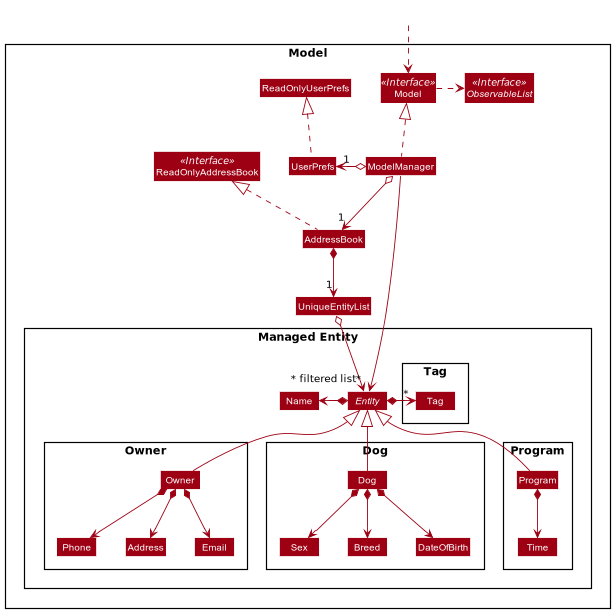
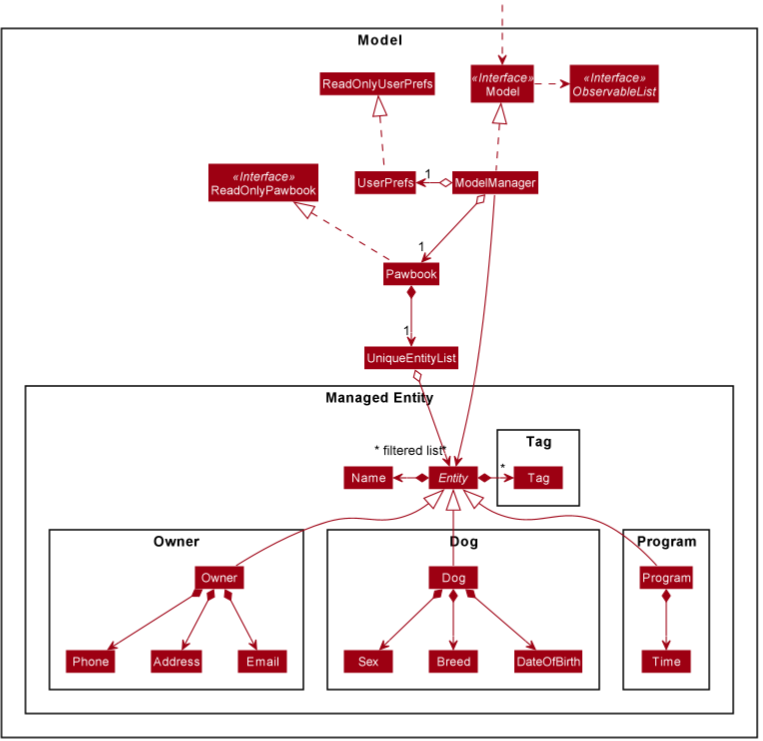
Remove undo related uml diagrams and screenshots. Update developer guide

Changed region(s): [[0.0, 0.031, 1.0, 1.0], [0.2476, 0.2173, 0.4332, 0.3105]]

diff --git a/docs/DeveloperGuide.md b/docs/DeveloperGuide.md
@@ -152,7 +152,7 @@ Classes used by multiple components are in the `pawbook.commons` package.
 
 This section describes some noteworthy details on how certain features are implemented.
 
-### Adding/deleting feature
+### Adding/Deleting feature
 
 #### What it is
 
@@ -240,67 +240,6 @@ Below is an example activity diagram for a valid enrol command from the user.
 As dogs and programs can also be identified by their respective names instead of IDs, another implementation could be replacing the parameters of `dogId` and `programId` with their respective names.
 
 However, this requires there to be no duplicate dog or program names.
- 
-### \[Proposed\] Undo/redo feature
-
-#### Proposed Implementation
-
-The proposed undo/redo mechanism is facilitated by `VersionedAddressBook`. It extends `AddressBook` with an undo/redo history, stored internally as an `addressBookStateList` and `currentStatePointer`. Additionally, it implements the following operations:
-
-* `VersionedAddressBook#commit()` — Saves the current address book state in its history.
-* `VersionedAddressBook#undo()` — Restores the previous address book state from its history.
-* `VersionedAddressBook#redo()` — Restores a previously undone address book state from its history.
-
-These operations are exposed in the `Model` interface as `Model#commitAddressBook()`, `Model#undoAddressBook()` and `Model#redoAddressBook()` respectively.
-
-Given below is an example usage scenario and how the undo/redo mechanism behaves at each step.
-
-Step 1. The user launches the application for the first time. The `VersionedAddressBook` will be initialized with the initial address book state, and the `currentStatePointer` pointing to that single address book state.
-
-![UndoRedoState0](images/UndoRedoState0.png)
-
-Step 2. The user executes `delete 5` command to delete the 5th owner in the address book. The `delete` command calls `Model#commitAddressBook()`, causing the modified state of the address book after the `delete 5` command executes to be saved in the `addressBookStateList`, and the `currentStatePointer` is shifted to the newly inserted address book state.
-
-![UndoRedoState1](images/UndoRedoState1.png)
-
-Step 3. The user executes `add n/David …` to add a new owner. The `add` command also calls `Model#commitAddressBook()`, causing another modified address book state to be saved into the `addressBookStateList`.
-
-![UndoRedoState2](images/UndoRedoState2.png)
-
-<div markdown="span" class="alert alert-info">:information_source: **Note:** If a command fails its execution, it will not call `Model#commitAddressBook()`, so the address book state will not be saved into the `addressBookStateList`.
-
-</div>
-
-Step 4. The user now decides that adding the owner was a mistake, and decides to undo that action by executing the `undo` command. The `undo` command will call `Model#undoAddressBook()`, which will shift the `currentStatePointer` once to the left, pointing it to the previous address book state, and restores the address book to that state.
-
-![UndoRedoState3](images/UndoRedoState3.png)
-
-<div markdown="span" class="alert alert-info">:information_source: **Note:** If the `currentStatePointer` is at index 0, pointing to the initial AddressBook state, then there are no previous AddressBook states to restore. The `undo` command uses `Model#canUndoAddressBook()` to check if this is the case. If so, it will return an error to the user rather
-than attempting to perform the undo.
-
-</div>
-
-The following sequence diagram shows how the undo operation works:
-
-![UndoSequenceDiagram](images/UndoSequenceDiagram.png)
-
-<div markdown="span" class="alert alert-info">:information_source: **Note:** The lifeline for `UndoCommand` should end at the destroy marker (X) but due to a limitation of PlantUML, the lifeline reaches the end of diagram.
-
-</div>
-
-The `redo` command does the opposite — it calls `Model#redoAddressBook()`, which shifts the `currentStatePointer` once to the right, pointing to the previously undone state, and restores the address book to that state.
-
-<div markdown="span" class="alert alert-info">:information_source: **Note:** If the `currentStatePointer` is at index `addressBookStateList.size() - 1`, pointing to the latest address book state, then there are no undone AddressBook states to restore. The `redo` command uses `Model#canRedoAddressBook()` to check if this is the case. If so, it will return an error to the user rather than attempting to perform the redo.
-
-</div>
-
-Step 5. The user then decides to execute the command `list`. Commands that do not modify the address book, such as `list`, will usually not call `Model#commitAddressBook()`, `Model#undoAddressBook()` or `Model#redoAddressBook()`. Thus, the `addressBookStateList` remains unchanged.
-
-![UndoRedoState4](images/UndoRedoState4.png)
-
-Step 6. The user executes `clear`, which calls `Model#commitAddressBook()`. Since the `currentStatePointer` is not pointing at the end of the `addressBookStateList`, all address book states after the `currentStatePointer` will be purged. Reason: It no longer makes sense to redo the `add n/David …` command. This is the behavior that most modern desktop applications follow.
-
-![UndoRedoState5](images/UndoRedoState5.png)
 
 The following activity diagram summarizes what happens when a user executes a new command:
 
@@ -535,16 +474,16 @@ testers are expected to do more *exploratory* testing.
 
 1. _{ more test cases … }_
 
-### Deleting a owner
+### Deleting an owner
 
-1. Deleting a owner while all owners are being shown
+1. Deleting an owner while all owners are being shown
 
    1. Prerequisites: List all owners using the `list` command. Multiple owners in the list.
 
-   1. Test case: `delete 1`<br>
+   1. Test case: `delete owner 1`<br>
       Expected: First contact is deleted from the list. Details of the deleted contact shown in the status message. Timestamp in the status bar is updated.
 
-   1. Test case: `delete 0`<br>
+   1. Test case: `delete owner 0`<br>
       Expected: No owner is deleted. Error details shown in the status message. Status bar remains the same.
 
    1. Other incorrect delete commands to try: `delete`, `delete x`, `...` (where x is larger than the list size)<br>
